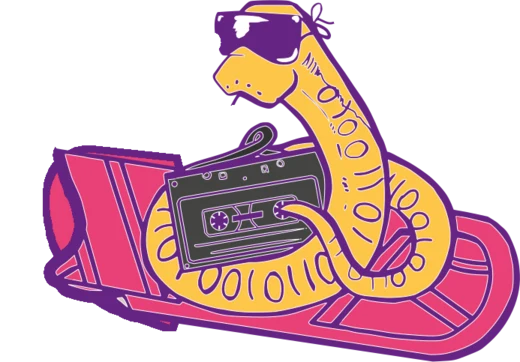
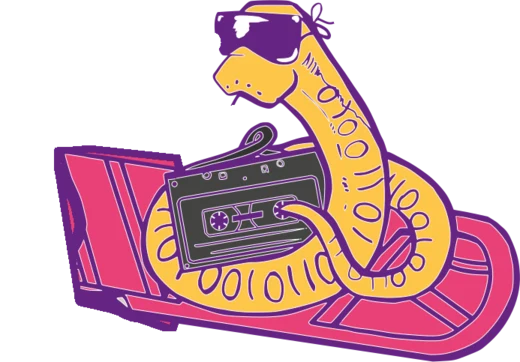
Ride the hoverboard nose first, with a square tail
A hoverboard has one rounded end, the nose, and a square tail. The drawn-in
end under the badger's foot is now that square tail, and the snake rides
with the rounded nose leading: to the right first, then back to the left.

Claude-Session: https://claude.ai/code/session_015fvw78iftbnPhmggbKVAoH

Changed region(s): [[0.0615, 0.395, 0.1846, 0.8508], [0.1846, 0.8508, 0.2154, 0.8812]]

diff --git a/badge.js b/badge.js
@@ -139,14 +139,14 @@ function start() {
     if (!snaking) {
       word('BADGER', W / 2, H * 0.3, Math.min(W * 0.16, H * 0.16), COLOURS[beat % COLOURS.length], 1 + 0.25 * kick, 0);
     } else if (snake.complete && snake.naturalWidth) {
-      // The snake rides through from the right, nose first, hovering; then turns and comes
-      // back the other way, a bit higher up.
+      // The snake rides through from the left, the board's rounded nose first, hovering; then
+      // turns and comes back the other way, a bit higher up.
       const pass = snakeTime / (SNAKE_BEATS * BEAT / 2);
       const back = pass >= 1;
       const u = pass % 1;
       const sh = Math.min(H * 0.45, W * 0.5);
       const sw = sh * snake.width / snake.height;
-      const across = W + sw * 0.6 - u * (W + sw * 1.2);
+      const across = -sw * 0.6 + u * (W + sw * 1.2);
       const x = back ? W - across : across;
       const y = H * (back ? 0.55 : 0.62) + Math.sin(snakeTime * 7) * sh * 0.04;
       ctx.save();
@@ -156,7 +156,7 @@ function start() {
       ctx.globalAlpha = 0.6;
       for (let i = 0; i < 6; i += 1) {
         ctx.fillStyle = COLOURS[i % COLOURS.length];
-        ctx.fillRect(sw * 0.3, sh * (0.1 + i * 0.06), W + sw, sh * 0.02);
+        ctx.fillRect(-sw * 0.3 - W - sw, sh * (0.1 + i * 0.06), W + sw, sh * 0.02);
       }
       ctx.globalAlpha = 1;
       ctx.rotate(Math.sin(snakeTime * 3.5) * 0.04);

diff --git a/tools/sprites.py b/tools/sprites.py
@@ -6,7 +6,8 @@ Usage: tools/sprites.py path/to/konsool_mascots.svg
 
 The badger and the snake share one purple outline in the drawing, so each gets the part of
 it around its own fills. The badger's foot covers the left end of the snake's hoverboard;
-that end is drawn in here, rounded, in the board's pink with a purple rim.
+that end is drawn in here: square, like the tail of a real hoverboard (the nose is the
+rounded end), in the board's pink with a purple rim.
 Needs inkscape, ImageMagick and Pillow.
 """
 import subprocess
@@ -53,12 +54,18 @@ def board_end(src, dst):
     for y in range(250, 305):              # a stray bit of the badger's outline
         for x in range(0, 40):
             px[x, y] = (0, 0, 0, 0)
+    # Clear what's left of the cut beyond the new tail, a line from (50, 205) to (80, 398).
+    for y in range(185, 445):
+        edge = 50 + (80 - 50) * (min(max(y, 205), 398) - 205) / (398 - 205)
+        for x in range(0, int(edge)):
+            px[x, y] = (0, 0, 0, 0)
     pad = 30
     bez = lambda p0, p1, p2, p3, n=30: [tuple((1 - t) ** 3 * a + 3 * (1 - t) ** 2 * t * b + 3 * (1 - t) * t ** 2 * c + t ** 3 * e
                                               for a, b, c, e in zip(p0, p1, p2, p3)) for t in (i / n for i in range(n + 1))]
     o = lambda x, y: (x + pad, y)
-    pts = ([o(88, 203)] + bez(o(88, 203), o(40, 215), o(30, 255), o(40, 300))
-           + bez(o(40, 300), o(48, 345), o(80, 385), o(125, 408)) + [o(195, 432), o(230, 330), o(200, 215)])
+    pts = ([o(88, 203), o(64, 205)] + bez(o(64, 205), o(50, 206), o(50, 206), o(52, 220))
+           + [o(78, 384)] + bez(o(78, 384), o(80, 398), o(80, 398), o(95, 401))
+           + [o(125, 408), o(195, 432), o(230, 330), o(200, 215)])
     mask = Image.new('L', (s.width + pad, s.height), 0)
     ImageDraw.Draw(mask).polygon(pts, fill=255)
     out = Image.new('RGBA', mask.size, (0, 0, 0, 0))
